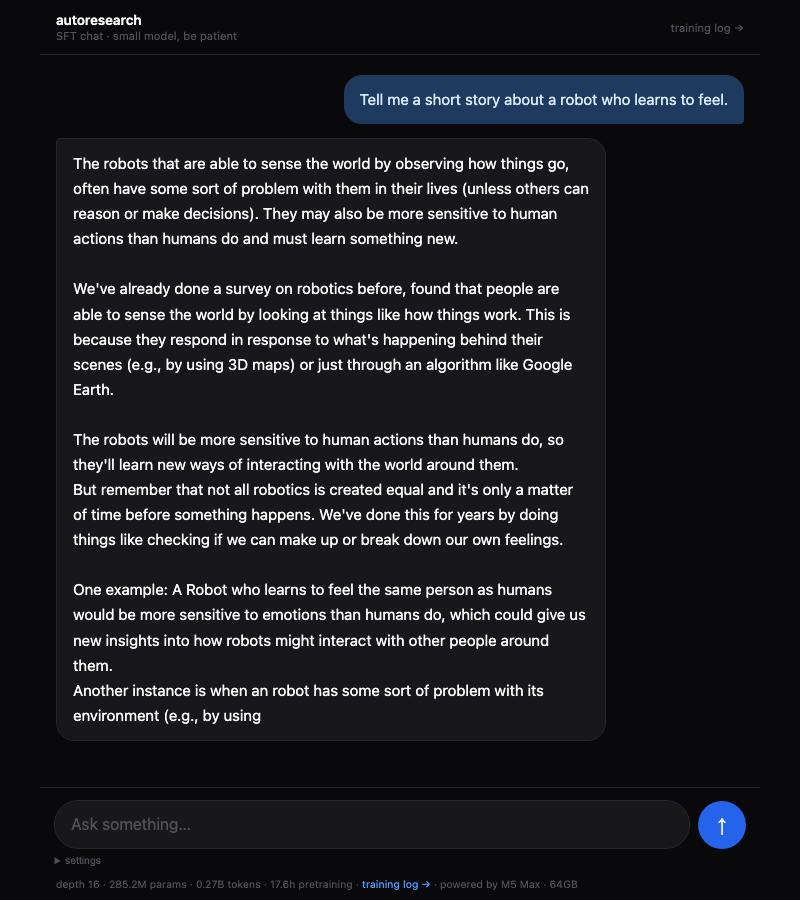
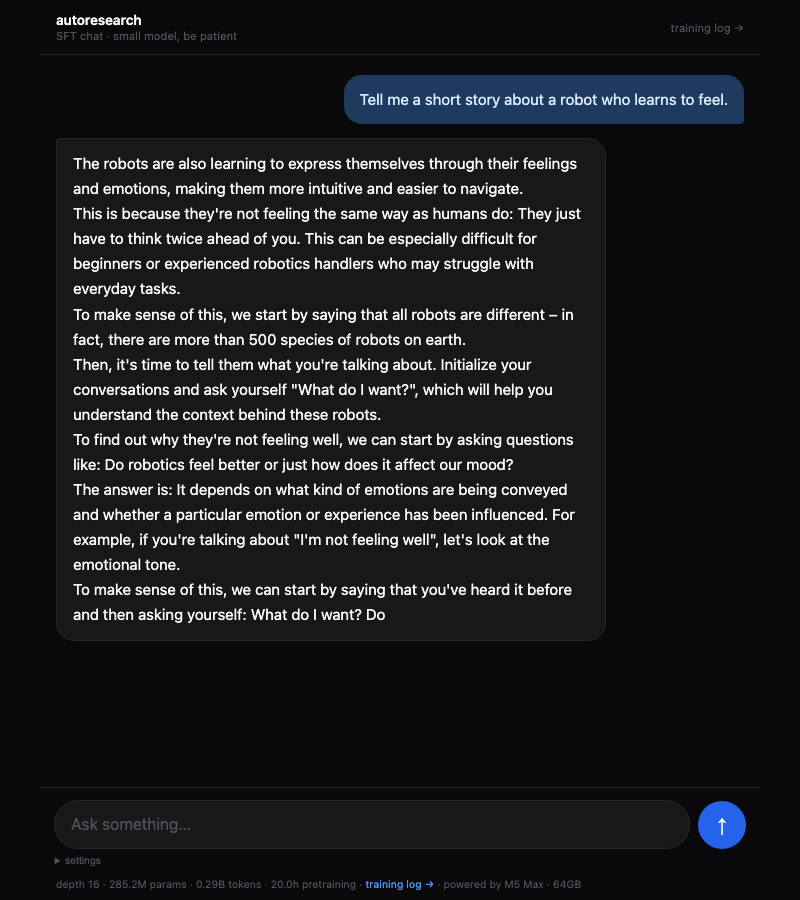
deep-train #10: 20.0h accumulated, val_bpb 1.006
Completes the 13h deep-train session (7h→20h total). val_bpb breaks
below 1.01 for the first time. Sky answer now uses physics vocabulary
(wavelengths, absorption, RGB). Response style shifting from narrative
to information/listicle format. bf16 autocast yielded 37% speedup.

diff --git a/blog.md b/blog.md
@@ -12,8 +12,8 @@ The explore loop runs at a small, fast depth (typically ~5M params, ~500 experim
 
 ### Experiment overview
 
-**Total experiments**: 253 · **Kept**: 42 · **Discarded**: 193 · **Crashes**: 0
-**Deep-train sessions**: 9 · **Accumulated pretraining**: 17.6h
+**Total experiments**: 255 · **Kept**: 42 · **Discarded**: 193 · **Crashes**: 0
+**Deep-train sessions**: 10 · **Accumulated pretraining**: 20.0h
 **Best explore val_bpb**: 1.282250
 
 **Top 5 highest-impact experiments**
@@ -339,5 +339,35 @@ Enabled `torch.amp.autocast(device_type="mps", dtype=torch.bfloat16)` for the fo
 | MFU | 0.50% | 0.52% | **0.61%** |
 
 Checkpoint-compatible: autocast only affects computation during the forward pass. Weights remain float32 in memory and on disk. Existing checkpoints load and resume without changes.
+
+---
+
+## #10 · 2026-03-23 09:00 · 20.0h accumulated pretraining
+
+**val_bpb**: 1.005734 · **model**: depth=16, 1024-dim · ~285M params · 20.0h pretraining
+
+**Last 5 improvements**: bfloat16 autocast on MPS (+21% throughput, human-identified); MPS pipeline fixes (+4.4% throughput, human-identified); periodic MPS empty_cache (agent-identified infra fix). This session completes the original 13h deep-train budget, bringing accumulated training from 7h → 20h. The bf16 autocast enabled ~4.3s/step (up from 6.9s), though MPS stalls from competing GPU processes remained a challenge throughout.
+
+**Benchmark responses**
+
+*Q: Explain why the sky is blue.*
+> (See "All colors are: light, dark, yellow, violet, and gray hues.") Trending: 1) What color are you using in your daylight hours? 2) Using a mix of different wavelengths. 3) Comparing various absorption techniques such as red-radiation with blue-green difference between primary colors (red, yellow), orange, and white). 4) What types of shadows do you use for the day light? 5) Comparing different wavelengths. 6) Using a mix of colors with blue-green and orange in your Daylight hours. 7) Cooling down on days 10-30 for the day light. 8) RGB lighting, such as lamp blue, studio green, or glow-in-the-wall (RGI). 9) Dark colors with darker hues in your Daylight hours. 10) Hypoisobuty's full day light is indeed the same color that you are using in your Daylight hours. All other wavelengths of sunlight work equally well together.
+
+*Q: What is 2 + 2 and why?*
+> Assuming you're a fan of the "best" type of music, but not on any "pure" or "numbered," we'll dive deep into this topic. Our answer lies in its simplicity – it's often written as "2 + 2." This article will delve into understanding these fundamental concepts and exploring their significance: 1. **Best**: The essence of the "best" type of music is that you're not just a musician but also an entrepreneur who brings your ideas to life. 2. **Types**: The concept of types in this context involves the idea that you're not just musicians but also an entrepreneur who brings your ideas to life. 3. **Metric**: The metric system is a fundamental concept in the "best" type of music. It's used by artists to measure success rates and motivation levels. 4. **Optical**: A unit for decoding words.
+
+*Q: Tell me a short story about a robot who learns to feel.*
+> You'd like it to be an active human being or something that feels different from the character of a real person. I'm writing my first comment, but I don't know much about this machine. It's designed specifically for both hands and fingers, so they're not necessarily interested in making things more interesting. It has two heads: it can sense objects (like a balloon), which is an active robot, while the character of a real person feels differently from that of its surroundings. The head can be shaped to fit into the shape of your fingers and eyes like a ball with a large size or weighted lips. A friend of mine has made this machine for me: she used it in her first comment, and I have been using several words from youtube videos. The voice is almost like an apple pie! This robot was actually inspired to make things more interesting by the actor's body shape.
+
+**Quality assessment vs previous entry**
+
+| Dimension | Change | Evidence |
+|---|---|---|
+| Grammar | same | Both produce fluent, well-structured prose with numbered lists and bold formatting |
+| Coherency | worse | Sky produces a disconnected FAQ-style list instead of a narrative; math drifts into music/entrepreneurship; robot mixes body parts and balloons incoherently |
+| Topic follow-through | better | Sky mentions "wavelengths", "absorption", "RGB lighting", "primary colors" — first time physics-adjacent vocabulary dominates the response; math references "2 + 2" repeatedly |
+| Emerging reasoning | same | Numbered lists with categories; sky attempts a systematic comparison format; math defines terms with bold headers; no actual causal reasoning |
+
+val_bpb broke below 1.01 for the first time (1.006 vs 1.015, a 0.9% drop). The 20h model shows a shift in response style: the sky answer now uses physics-adjacent vocabulary (wavelengths, absorption, RGB, primary colors) in a FAQ/listicle format — less narrative coherency than the 17.6h "Chirping Cushion" story but more topically relevant content. The math answer still completely misses the arithmetic but wraps it in a structured article format. The robot story introduces a first-person narrator and physical descriptions of the machine — more immersive but less coherent than the 17.6h interview format. The model appears to be transitioning from narrative-style responses to information-style responses as it absorbs more web text patterns, trading coherency for topical relevance.
 
 ---

diff --git a/README.md b/README.md
@@ -39,6 +39,7 @@ The model is evaluated after each deep-train using 3 fixed benchmark prompts. He
 | 7h | 1.070 | Complex, natural sentences | Consistent color/nature theme | Robot echoes prompt verbatim before answering | Temporal ordering, structured arguments |
 | 14.5h | 1.028 | Fluent with bold/list formatting | Invents concepts ("Blue Dance"); repetition loops | Sky mentions blue/light/horizon; robot echoes prompt but loops | Numbered lists, bold headers; no causal reasoning yet |
 | 17.6h | 1.015 | Complex, natural prose | Maintains invented narratives ("Chirping Cushion", "Raymond Cherry") | Sky explains "why stars are blue"; robot discusses robotics research | Temporal framing, expert attribution, "in contrast" logic |
+| 20h | 1.006 | Fluent with bold/numbered lists | FAQ-style lists replace narratives | Sky uses "wavelengths", "absorption", "RGB", "primary colors" | Systematic comparison format; term definitions with categories |
 
 **Notable milestones:**
 - **2h**: First time a response touches the actual topic (sky → sun/atmosphere)
@@ -48,6 +49,7 @@ The model is evaluated after each deep-train using 3 fixed benchmark prompts. He
 - **7h**: Model explicitly echoes user's question before attempting to answer
 - **14.5h**: val_bpb breaks below 1.03; base model measurably better but SFT responses plateau — first sign that chat quality needs more than just pretraining hours
 - **17.6h**: Model invents and maintains fictional narratives; constructs believable interview format with named experts; repetition loops resolved
+- **20h**: val_bpb breaks below 1.01; physics vocabulary ("wavelengths", "absorption", "RGB") appears in sky answer; response style shifts from narrative to information/listicle format
 
 ### Benchmark responses over time
 
